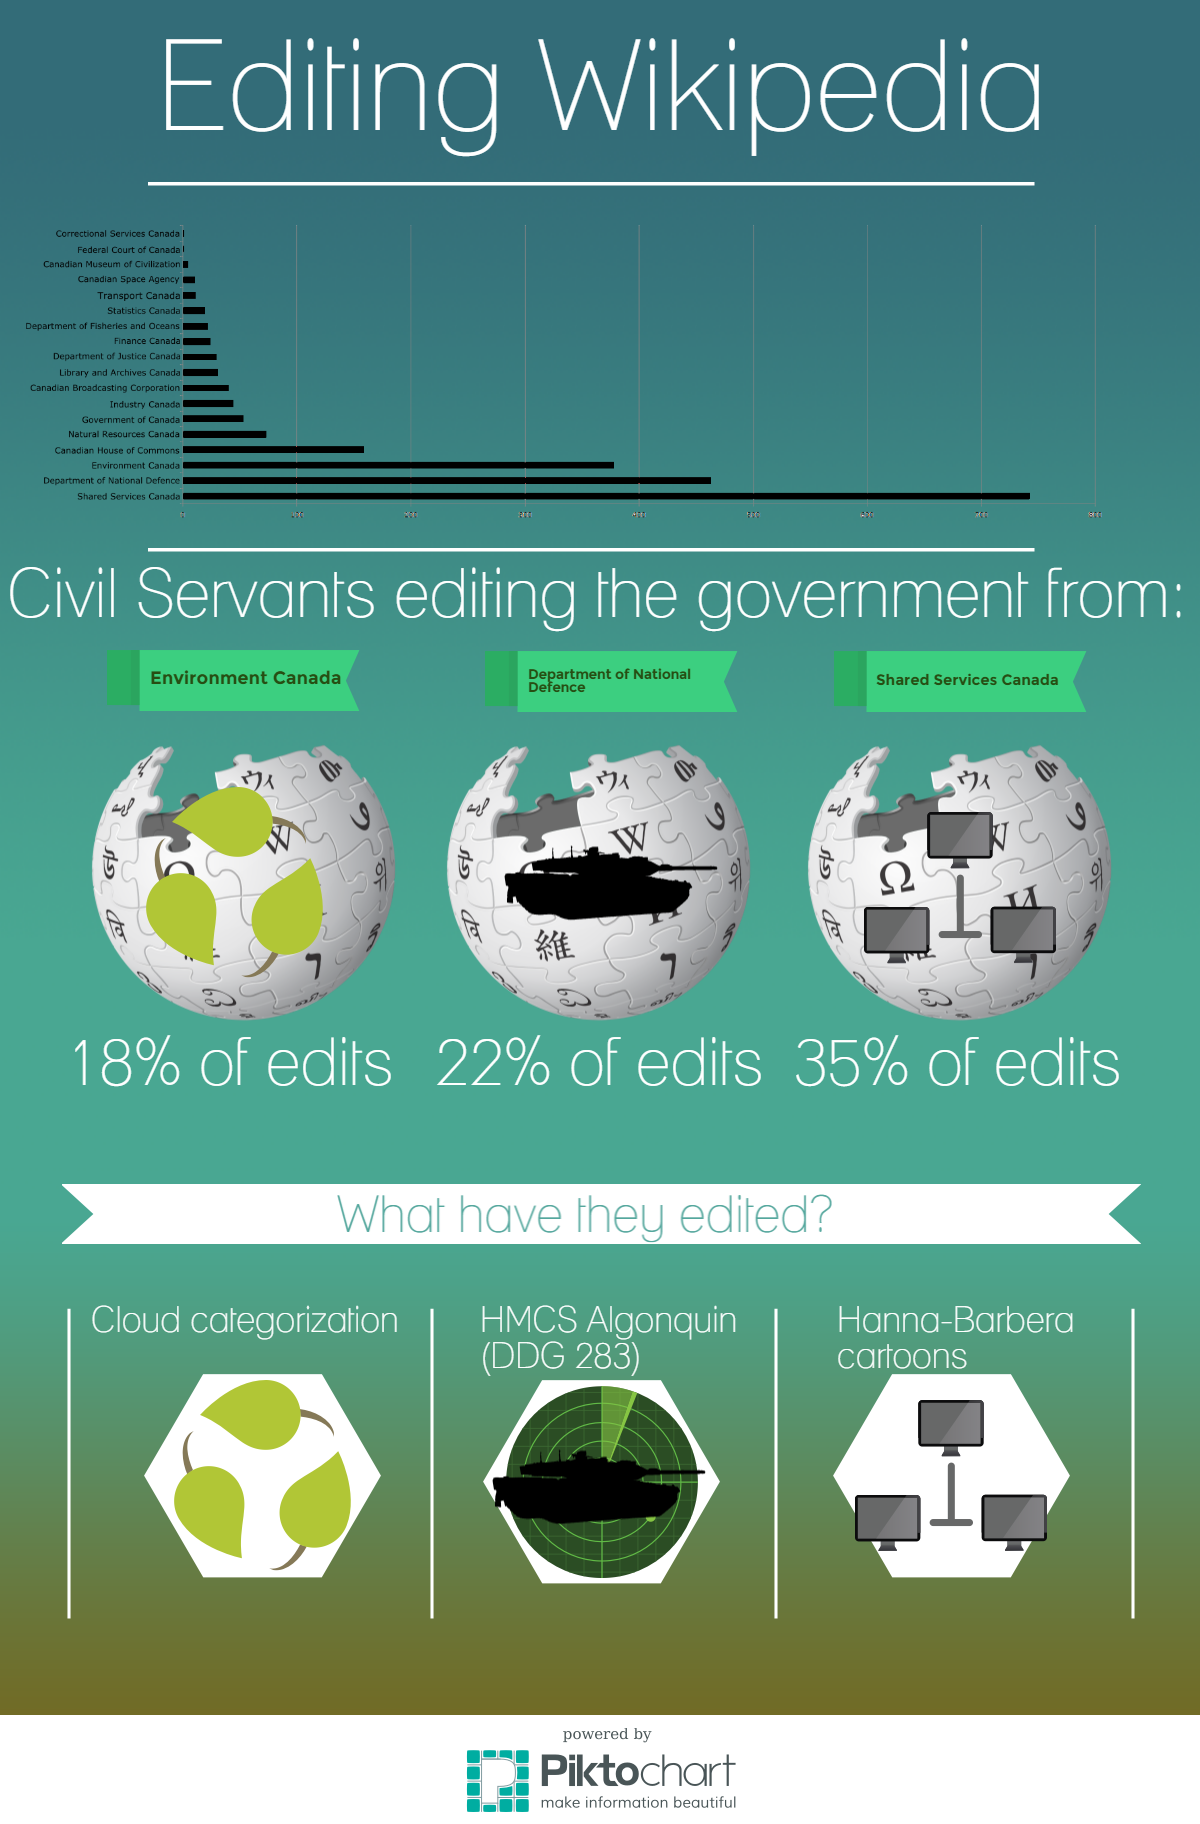
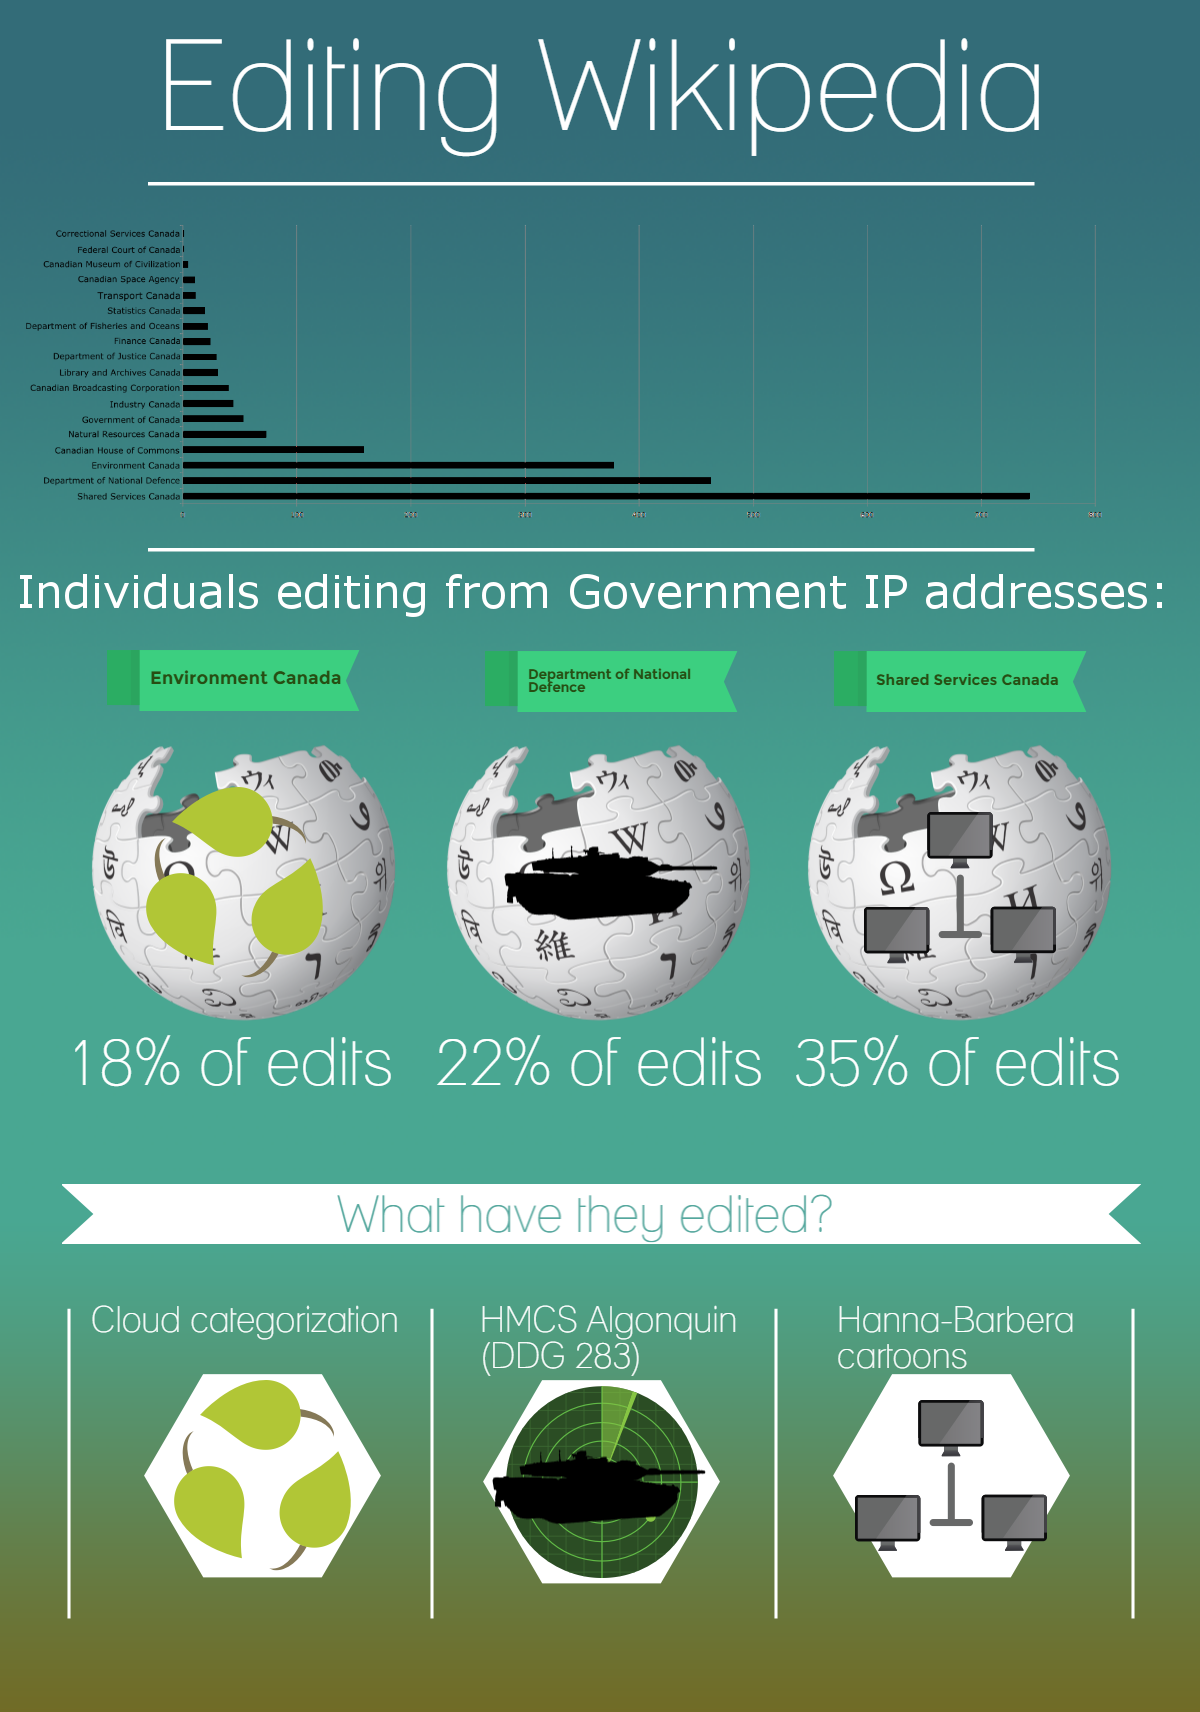
correcting paradata and images

diff --git a/paradata.md b/paradata.md
@@ -1,0 +1,2 @@
+#EditingWikipedia
+- 
